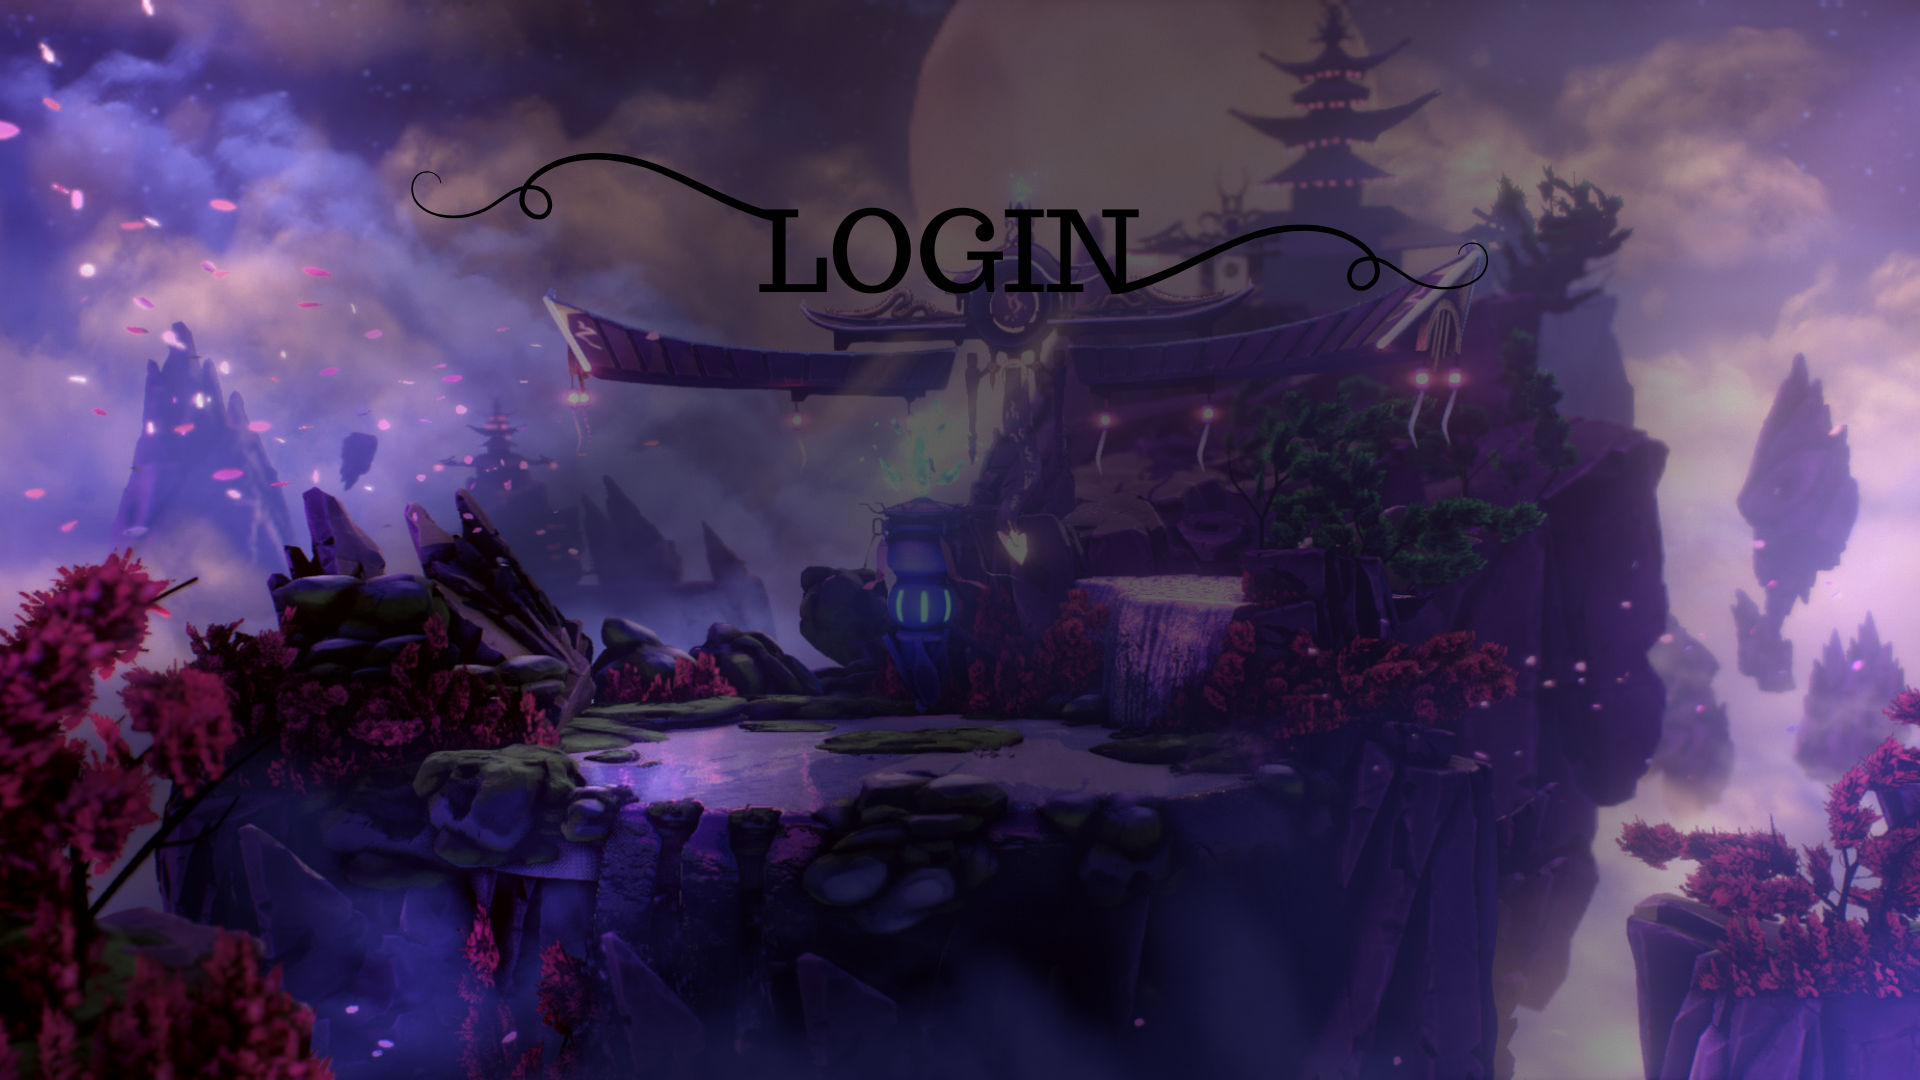
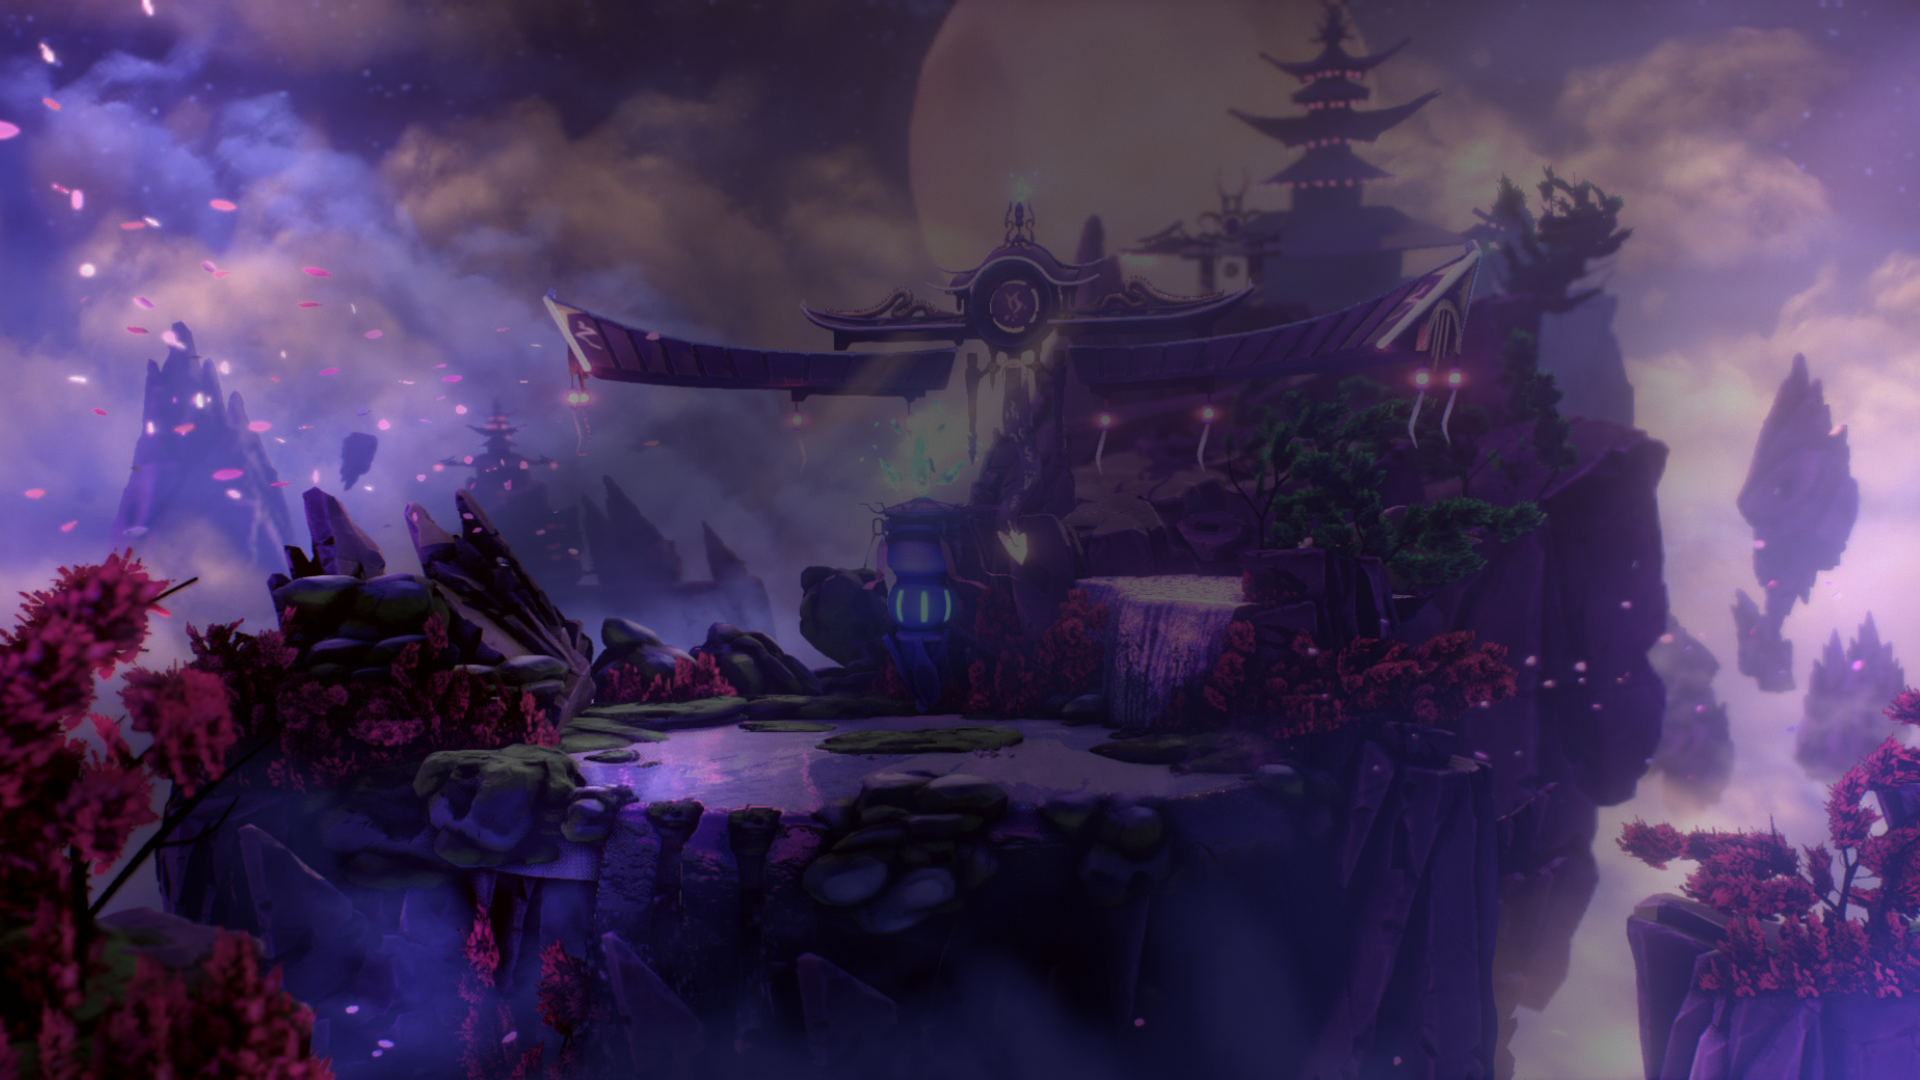
button ga rapii

diff --git a/src/pages/Login.css b/src/pages/Login.css
@@ -1,51 +1,82 @@
-.login-page{
-    background-image: url('/public/bg-login.png');
-        width: 100vw;
-        height: 100vh;
-        display: flex;
-        justify-content: center;
-        align-items: center;
-        background-image: url('/bg-login.png');
-        background-size: cover;
-        background-position: top center;
-        background-repeat: no-repeat;
-      }
-  
-  
-  .login-form {
-    background-color: rgba(139, 139, 139, 0.5);
-    padding: 160px;
-    border-radius: 16px;
-    box-shadow: 0 4px 20px rgba(0, 0, 0, 0.2);
-    width: 1400px;
-    display: flex;
-    flex-direction: column;
-    gap: 16px;
-  }
-  
-  .login-form h2 {
-    text-align: center;
-    color: #2c3e50;
-  }
-  
-  .login-form input {
-    padding: 12px;
-    border: 1px solid #ccc;
-    border-radius: 8px;
-    font-size: 14px;
-  }
-  
-  .login-form button {
-    padding: 12px;
-    background-color: #00b894;
-    color: white;
-    border: none;
-    border-radius: 8px;
-    font-weight: bold;
-    cursor: pointer;
-  }
-  
-  .login-form p {
-    font-size: 14px;
-    text-align: center;
-  }
+.login-page {
+  height: 100vh;
+  width: 100vw;
+  background-image: url('/bg-login.png'); 
+  background-size: cover;
+  background-position: center;
+  display: flex;
+  justify-content: center;
+  align-items: center;
+}
+
+
+.login-form {
+  width: 80%;
+  max-width: 400px;
+  display: flex;
+  flex-direction: column;
+  gap: 20px;
+  color: white;
+}
+
+.login-form input,
+.login-form button {
+  padding: 10px;
+  font-size: 16px;
+  border-radius: 12px;
+  border: none;
+}
+
+.login-form  {
+  background-color: #000000;
+  color: white;
+  cursor: pointer;
+  width: 100px;
+  height: 50px;
+}
+
+.login-form input {
+  color: white; 
+  background: linear-gradient(135deg, rgba(0, 0, 0, 0.6), rgba(106, 13, 173, 0.6), rgba(0, 15, 27, 0.6));
+}
+
+.login-form input::placeholder {
+  color: #ddd; 
+}
+
+.login-form {
+  display: flex;
+  flex-direction: column;
+  align-items: center; /* center isi form */
+  background-color: rgba(255, 255, 255, 0.2); /* transparan */
+  padding: 230px;
+  border-radius: 15px;
+  width: 750px;
+  height: 200px;
+}
+
+.tulisan-login-wrapper {
+  display: flex;
+  justify-content: center;
+  width: 100%;
+  margin-bottom: 40px;
+}
+
+.tulisan-login {
+  width: 800px;
+  height: auto;
+  margin-top: -100px;
+}
+
+.close-btn {
+  position: absolute;
+  top: 11rem;
+  right: 33rem;
+  font-size: 5rem;
+  background: none;
+  border: none;
+  color: rgb(0, 0, 0);
+  cursor: pointer;
+  width: 100px;
+
+}

diff --git a/src/pages/Login.jsx b/src/pages/Login.jsx
@@ -18,26 +18,20 @@ const Login = () => {
   };
 
   return (
-    <div className="login-page">
-      <form className="login-form" onSubmit={handleLogin}>
-        <input
-          type="email"
-          placeholder="Email"
-          value={email}
-          onChange={(e) => setEmail(e.target.value)}
-          required
-        />
-        <input
-          type="password"
-          placeholder="Password"
-          value={password}
-          onChange={(e) => setPassword(e.target.value)}
-          required
-        />
-        <button type="submit">Login</button>
-        <p>Belum punya akun? <Link to="/register">Daftar di sini</Link></p>
-      </form>
+
+<div className="login-page">
+  <div className="login-form">
+  <button className="close-btn" onClick={() => navigate('/')}>🏠</button>
+    <div className="tulisan-login-wrapper">
+      <img src="/tulisan-login.png" alt="Login" className="tulisan-login" />
     </div>
+    <input type="email" placeholder="Email" />
+    <input type="password" placeholder="Password" />
+    <button>Login</button>
+    <p>Belum punya akun? <a href="/Register">Daftar</a></p>
+  </div>
+</div>
+
   );
 };
 

diff --git a/src/pages/Register.jsx b/src/pages/Register.jsx
@@ -2,6 +2,8 @@ import { useState } from "react";
 import { getAuth, createUserWithEmailAndPassword } from "firebase/auth";
 import app from "../firebase/firebaseConfig"; 
 import { useNavigate } from "react-router-dom";
+import './Register.css';
+
 
 const Register = () => {
   const [email, setEmail] = useState("");
@@ -21,6 +23,7 @@ const Register = () => {
   };
 
   return (
+    <div className="Regist-page">
     <div>
       <h2>Register</h2>
       <form onSubmit={handleRegister}>
@@ -40,6 +43,7 @@ const Register = () => {
         /><br />
         <button type="submit">Daftar</button>
       </form>
+    </div>
     </div>
   );
 };

diff --git a/src/pages/LevelPage.jsx b/src/pages/LevelPage.jsx
@@ -8,7 +8,7 @@ function LevelPage() {
   return (
     <div className="level-page-container">
           <div className="transparant">
-      <button className="close-btn" onClick={() => navigate('/')}>×</button>
+      <button className="close-btn" onClick={() => navigate('/')}>🏠</button>
       <div className="level-container">
   {/* Baris atas */}
   <div className="level-row">

diff --git a/src/pages/Register.css b/src/pages/Register.css
@@ -1,0 +1,10 @@
+.Regist-page {
+    height: 100vh;
+    width: 100vw;
+    background-image: url('/bg-login.png'); 
+    background-size: cover;
+    background-position: center;
+    display: flex;
+    justify-content: center;
+    align-items: center;
+  }
